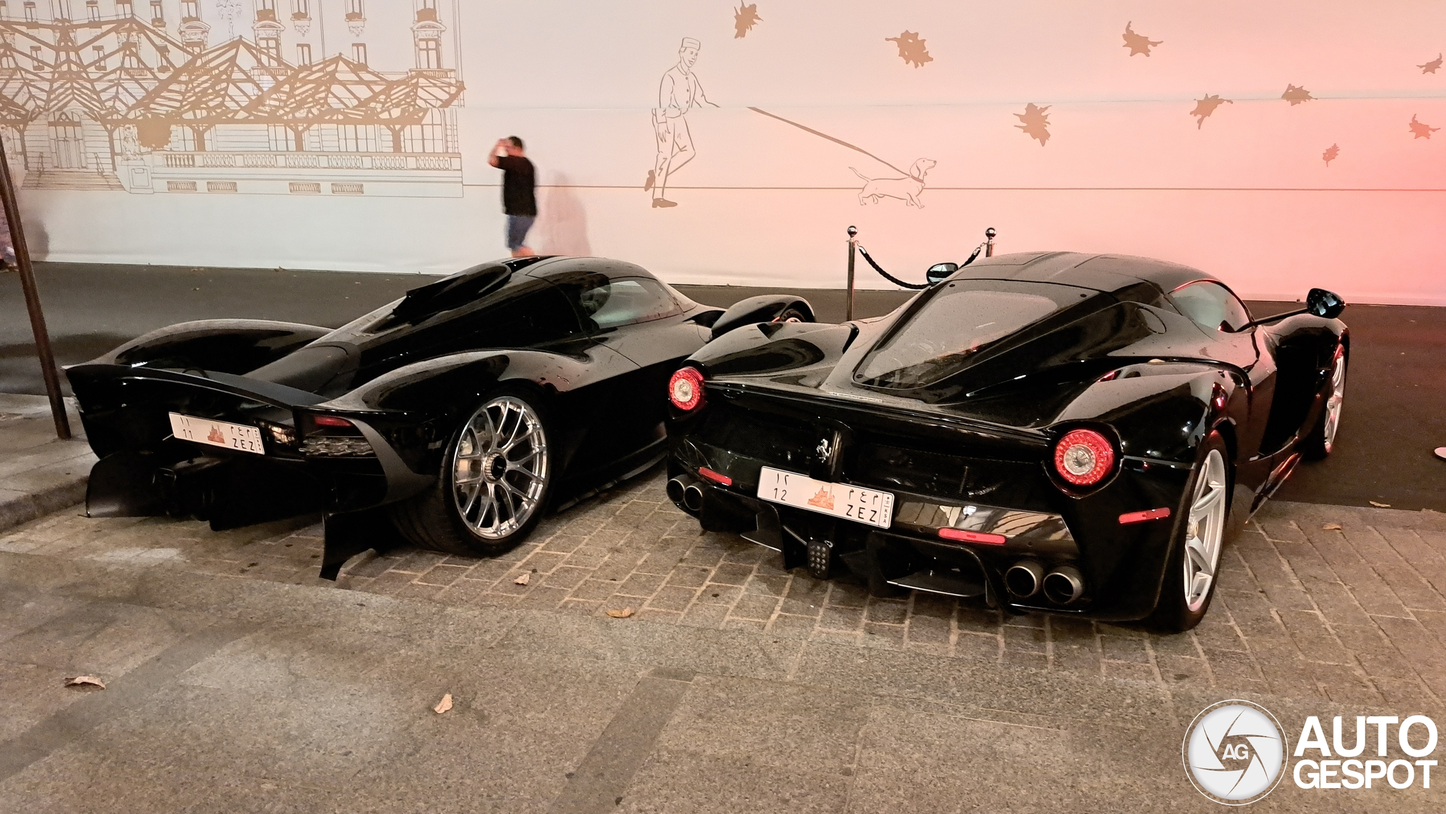
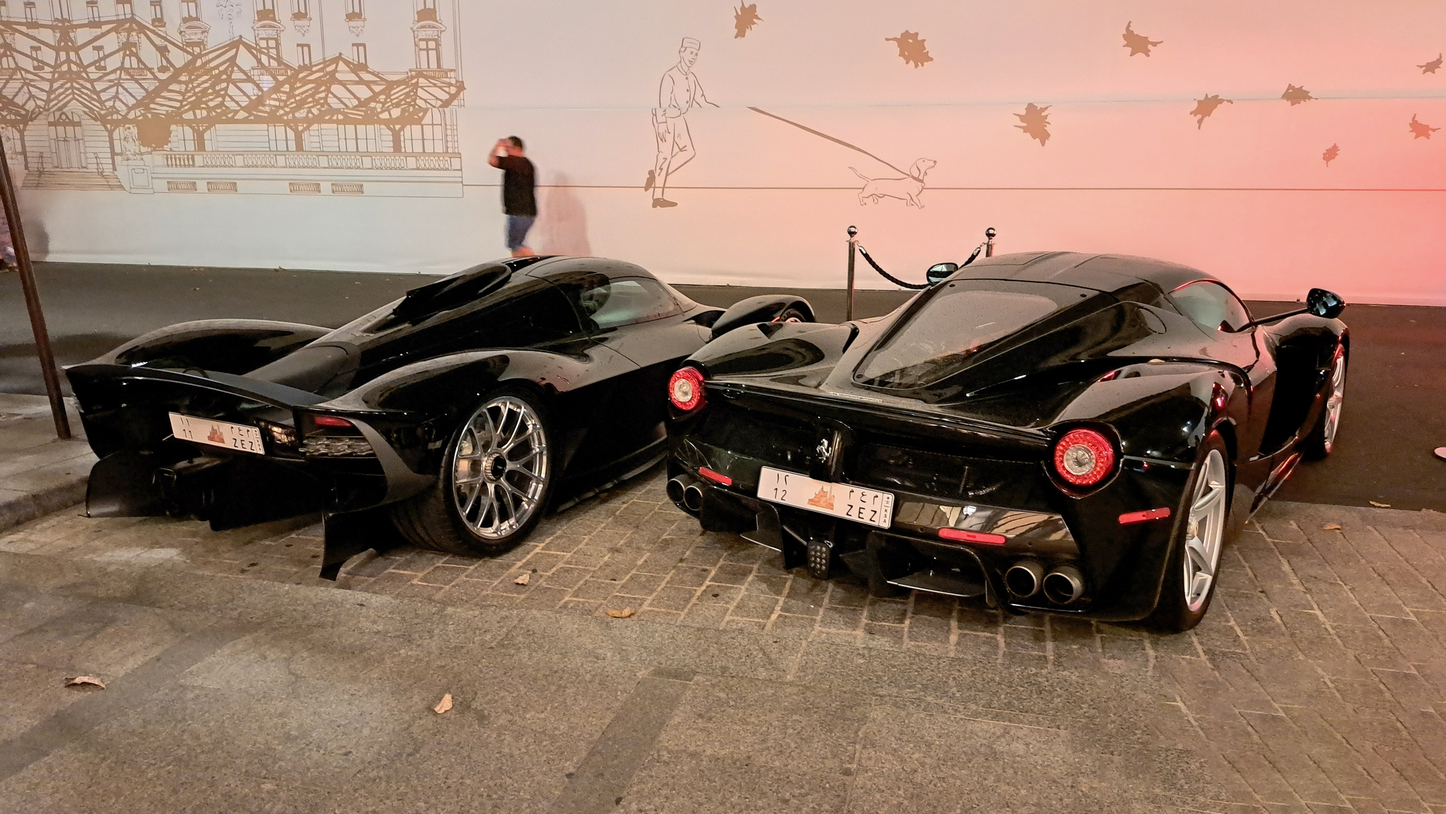
Set Rolls-Royce Spectre exact Thumbnail.webp and deploy

Changed region(s): [[0.75, 0.8114, 1.0, 1.0], [0.5625, 0.5929, 0.5938, 0.6241]]

diff --git a/js/ai-chatbot.js b/js/ai-chatbot.js
@@ -17,7 +17,7 @@
       { id: 108, name: 'Bugatti Tourbillon (2026)', price: '4,100,000 USD', desc: 'Động cơ V16 Hybrid 1.800 mã lực, cụm đồng hồ cơ học Thụy Sĩ đỉnh cao', img: 'assets/Posts/Bugatti_tourbillon_2026/Bugatti Tourbillon (2026)1.jpg' },
       { id: 109, name: 'Ferrari LaFerrari', price: '3,500,000 USD', desc: 'Hypercar Hybrid V12 963 HP kiệt tác từ Maranello', img: 'assets/Posts/ferrari-laferrari/ferrari-laferrari-0f31e-c414325082026194653_1.jpg' },
       { id: 110, name: 'Lamborghini Revuelto', price: '600,000 USD', desc: 'Siêu bò V12 Hybrid thế hệ mới nhất 1.015 HP', img: 'assets/vehicles/lamborghini_revuelto.jpg' },
-      { id: 111, name: 'Rolls-Royce Spectre', price: '450,000 USD', desc: 'Siêu sang thuần điện đầu tiên trong lịch sử Rolls-Royce', img: 'assets/Posts/Rolls_Royce_spectre/Rolls_Royce_spectre_1.jpg' },
+      { id: 111, name: 'Rolls-Royce Spectre', price: '450,000 USD', desc: 'Siêu sang thuần điện đầu tiên trong lịch sử Rolls-Royce', img: 'assets/Posts/Rolls_Royce_spectre/Thumbnail.webp' },
       { id: 112, name: 'Porsche 911 GT3 RS', price: '300,000 USD', desc: 'Vua đường đua khí động học 992', img: 'assets/vehicles/porsche_gt3_rs.jpg' },
       { id: 202, name: 'Louis Vuitton x Singer Porsche 911', price: '2,500,000 GBP', desc: 'Bespoke độc bản kết hợp giữa thời trang xa xỉ và cơ khí đỉnh cao', img: 'assets/Posts/911_LouisVuitton/Thumbnail.webp' }
     ],

diff --git a/index.html b/index.html
@@ -535,7 +535,7 @@
 </div>
 </a>
 <a class="grid-card" href="article.html?id=111" style=" text-decoration: none; color: inherit; display: block;">
-<div class="grid-img"><img alt="Rolls-Royce Spectre" src="assets/Posts/Rolls_Royce_spectre/Rolls_Royce_spectre_1.jpg"/></div>
+<div class="grid-img"><img alt="Rolls-Royce Spectre" src="assets/Posts/Rolls_Royce_spectre/Thumbnail.webp"/></div>
 <div class="grid-card-info">
   <h5>Rolls-Royce Spectre</h5>
 <div class="car-details">
